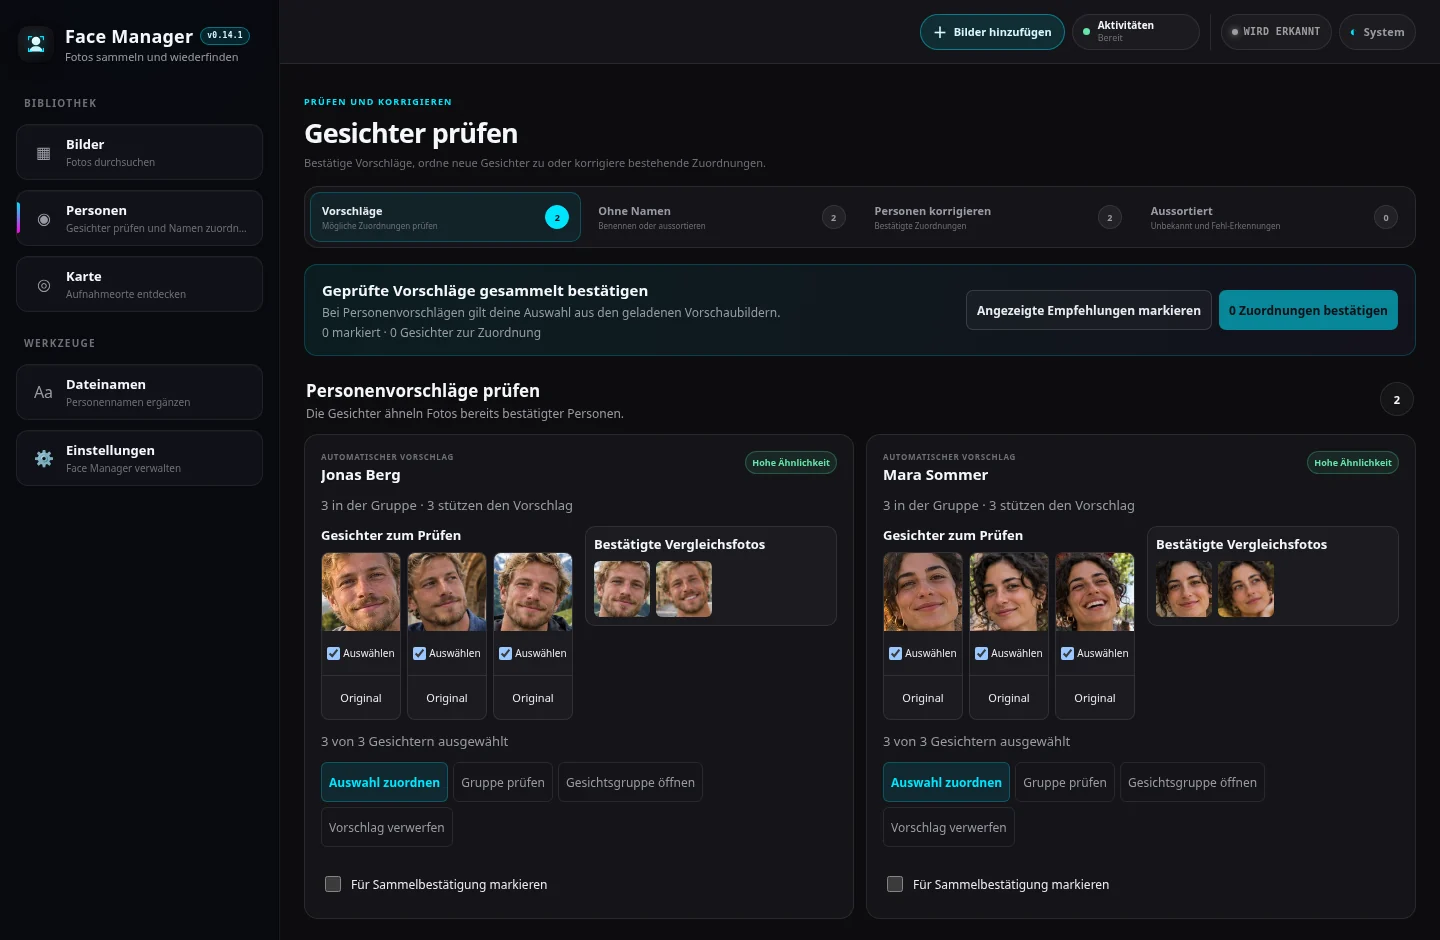
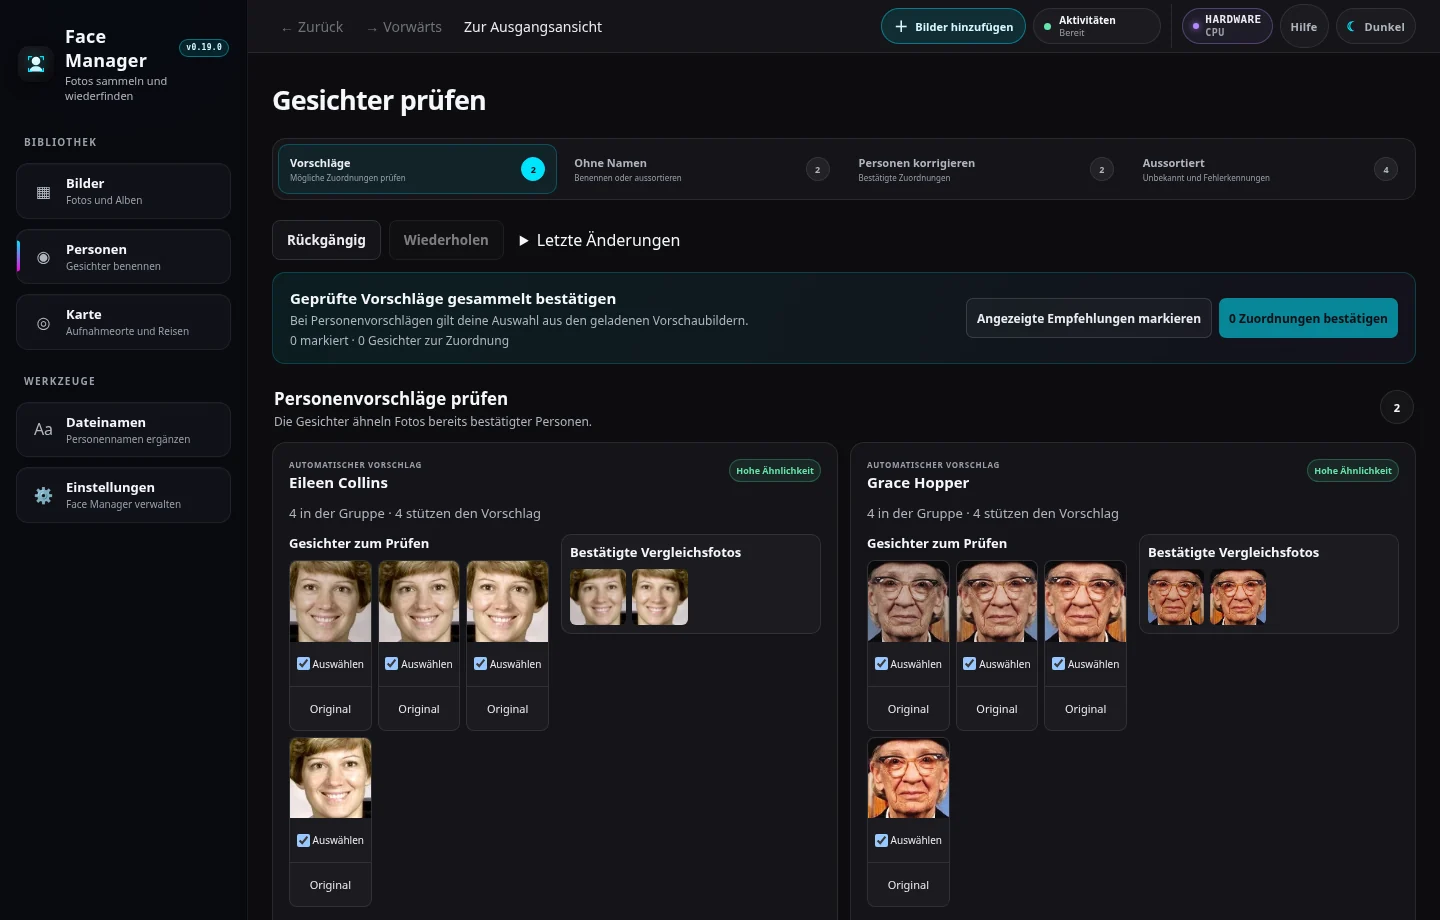
docs(readme): refresh the illustrated tour (#149)

diff --git a/README.md b/README.md
@@ -4,7 +4,7 @@ Face Manager ordnet deine Fotos auf deinem Gerät. Du kannst Gesichtern Namen ge
 
 [Download](#download-und-installation) · [Erste Schritte](#erste-schritte) · [Bebilderte Tour](#bebilderte-tour) · [Datenschutz](#daten-und-datenschutz) · [Quellcode](#aus-dem-quellcode-starten)
 
-![Neuer Ansichtsverlauf und Fotokarte mit ausgewähltem Reisezeitraum](docs/screenshots/navigation-0180.webp)
+![Face Manager mit Fotokarte und Fotos aus dem gewählten Ausschnitt](docs/screenshots/photo-map.webp)
 
 <a id="download-and-install"></a>
 
@@ -35,39 +35,112 @@ Für Android 11 oder neuer kannst du die App aus dem Quellcode bauen. Die GitHub
 
 ## Erste Schritte
 
-1. Öffne **Bilder hinzufügen** und wähle einen oder mehrere Bilderordner. Unter **Aktivitäten** siehst du den Fortschritt.
+1. Öffne **Bilder hinzufügen** (in sehr schmalen Fenstern **+ Bilder**) und wähle einen oder mehrere Bilderordner. Unter **Aktivitäten** siehst du den Fortschritt.
 2. Öffne **Personen → Ohne Namen**, wähle eine Gesichtsgruppe und gib den passenden Gesichtern einen Namen. Unter **Vorschläge** kannst du mögliche Zuordnungen prüfen.
 3. In **Bilder** kannst du nach Personen, Ordnern oder Alben filtern. Unter **Karte** findest du Fotos mit gespeicherten Aufnahmeorten.
 
-Oben in der App öffnet **Hilfe** eine Anleitung, in der du ein Thema direkt auswählen kannst. Mit **Zurück** und **Vorwärts** kehrst du zu früheren Ansichten zurück. Beim Wechsel über die Seitenleiste bleiben deine zuletzt verwendeten Ansichten erhalten. **Zur Ausgangsansicht** bringt dich zu den Standardfiltern der aktuellen Seite.
+Unter **Hilfe** kannst du direkt ein Thema auswählen. Mit **Zurück** und **Vorwärts** kehrst du zu früheren Ansichten zurück. Beim Wechsel zwischen den Bereichen bleiben deine zuletzt verwendeten Ansichten erhalten. **Zur Ausgangsansicht** bringt dich zu den Standardfiltern der aktuellen Seite. In schmalen Fenstern findest du **Dateinamen** und **Einstellungen** unter **Mehr**.
 
 <a id="app-tour"></a>
 
 ## Bebilderte Tour
 
-Screenshots und Video zeigen Beispieldaten aus der App. Die Porträts und Reisefotos der ersten Demo wurden mit OpenAI erzeugt. [Älteres Bedienvideo mit englischen Texteinblendungen (ohne Ton)](docs/screenshots/face-manager-demo.mp4?raw=true)
+Die Screenshots zeigen Face Manager im Modus **Dunkel**. Die Landschaftsaufnahmen stammen vom U.S. National Park Service. [Bildnachweise zu den Nationalparkfotos](docs/screenshots/photo-credits.md)
+
+Die Porträts und Reisefotos im älteren Bedienvideo wurden mit OpenAI erzeugt. [Älteres Bedienvideo mit englischen Texteinblendungen (ohne Ton)](docs/screenshots/face-manager-demo.mp4?raw=true)
 
 <details>
 <summary>Bilder, Galerie und Import</summary>
 
-Wähle unter **Bilder hinzufügen** mehrere Ordner auf einmal aus. Öffne in **Bilder** ein Foto für die Vollbildgalerie. Dort findest du zugehörige Gesichter und die Speicherorte der Datei.
+Wähle unter **Bilder hinzufügen** mehrere Ordner auf einmal aus. In **Bilder** kannst du die Auswahl eingrenzen. In kleinen Fenstern öffnest du dazu **Filter und Sortierung**. Öffne ein Foto für die Vollbildgalerie. Dort findest du zugehörige Gesichter und die Speicherorte der Datei.
+
+![Fotobibliothek mit Nationalparkfotos, Alben und Personenfiltern](docs/screenshots/photo-library.webp)
 
 ![Importdialog mit ausgewählten Bilderordnern](docs/screenshots/import-sources.webp)
 
-![Vollbildgalerie mit Navigation und Speicherort des Originalfotos](docs/screenshots/photo-gallery.webp)
+![Blick durch North Window auf Turret Arch in der Vollbildgalerie mit Navigation und Speicherort](docs/screenshots/photo-gallery.webp)
 
 </details>
 
 <details>
-<summary>Personen und Dateinamen</summary>
+<summary>Personen und Gesichtsgruppen</summary>
 
-Unter **Personen** vergleichst du vorgeschlagene Zuordnungen mit bereits benannten Gesichtern. Nach einer unterstützten lokalen Namenszuordnung oder Archivaktion kannst du die Änderung rückgängig machen und wiederholen. Fehlt ein Gesicht, öffne das Foto und wähle **Gesicht markieren**. Ziehe einen Rahmen auf und wähle die passende Person. Unter **Dateinamen** zeigt **Umbenennung prüfen** den aktuellen und den vorgesehenen Namen.
+Unter **Personen** kannst du neue Zuordnungen prüfen, Gesichter benennen und frühere Entscheidungen korrigieren.
 
-![Gesichter prüfen mit einer vorgeschlagenen Zuordnung und Vergleichsfotos](docs/screenshots/people-review.webp)
+<details>
+<summary>Vorschläge</summary>
 
-![Ein manuell gesetzter Rahmen um ein Gesicht am Bildrand](docs/screenshots/manual-face-marking.webp)
+Vergleiche die vorgeschlagenen Zuordnungen mit bereits bestätigten Fotos. Mit **Gruppe prüfen** öffnest du die Detailansicht und wählst aus, welche Gesichter du zuordnen möchtest.
 
-[Bildnachweis für das Porträt der NASA](https://scikit-image.org/docs/stable/api/skimage.data.html#skimage.data.astronaut)
+![Übersicht mit zwei Personenvorschlägen und bestätigten Vergleichsfotos](docs/screenshots/people-review.webp)
+
+![Detailansicht eines Personenvorschlags mit Gesichtsauswahl und Vergleichsfotos](docs/screenshots/people-suggestion-detail.webp)
+
+</details>
+
+<details>
+<summary>Ohne Namen</summary>
+
+Wähle eine Gruppe und ordne ihr eine Person zu. Markiere bei gemischten Gruppen zuerst die passenden Gesichter. In kleinen Fenstern füllt die geöffnete Gruppe den Arbeitsbereich. Mit **Zur Gruppenliste** kehrst du zur Auswahl zurück.
+
+![Unbenannte Gesichtsgruppen mit geöffneter Gruppe und Namenssuche](docs/screenshots/people-unnamed.webp)
+
+![Geöffnete Gesichtsgruppe im schmalen Fenster mit Namenssuche und Rückkehr zur Gruppenliste](docs/screenshots/people-review-compact.webp)
+
+</details>
+
+<details>
+<summary>Personen korrigieren</summary>
+
+Wähle eine bereits benannte Person und öffne eine ihrer Gruppen. Markiere falsch zugeordnete Gesichter und weise sie einer anderen Person zu oder wähle **Aus Gesichtsgruppe lösen**, um sie erneut zu prüfen.
+
+![Bestätigte Personen mit geöffneter Gesichtsgruppe zur Korrektur](docs/screenshots/people-corrections.webp)
+
+</details>
+
+<details>
+<summary>Aussortiert</summary>
+
+Hier findest du **Unbekannte Personen** und **Keine Gesichter**. Mit **Erneut prüfen** legst du ausgewählte Treffer wieder unter **Ohne Namen** vor.
+
+![Übersicht der Kategorien unter Aussortiert](docs/screenshots/people-archive.webp)
+
+![Kategorie Unbekannte Personen mit aussortierten Gesichtern](docs/screenshots/people-archive-unknown.webp)
+
+![Kategorie Keine Gesichter mit aussortierten Fehlerkennungen](docs/screenshots/people-archive-not-face.webp)
+
+</details>
+
+<details>
+<summary>Abgleich prüfen</summary>
+
+Wenn du einen gemeinsamen Ordner eingerichtet hast, kannst du hier abweichende Zuordnungen prüfen. Vergleiche die Entscheidungen und die zugehörigen Bildausschnitte.
+
+![Fall aus einem gemeinsamen Ordner mit zwei Entscheidungen und zugehörigen Bildausschnitten](docs/screenshots/people-shared-review.webp)
+
+</details>
+
+<details>
+<summary>Letzte Änderungen und Gesichter manuell markieren</summary>
+
+Unter **Letzte Änderungen** siehst du kürzlich ausgeführte Aktionen. Unterstützte Änderungen an der lokalen Bibliothek kannst du mit **Rückgängig** zurücknehmen und mit **Wiederholen** erneut ausführen.
+
+![Geöffnete Liste der letzten Änderungen mit Rückgängig und Wiederholen](docs/screenshots/people-history.webp)
+
+Fehlt ein Gesicht, öffne das Foto und wähle **Gesicht markieren**. Ziehe einen Rahmen auf und wähle die passende Person.
+
+![Ein manuell gesetzter Rahmen um das Gesicht von Eileen Collins](docs/screenshots/manual-face-marking.webp)
+
+</details>
+
+Die Beispielporträts stammen von der NASA und der U.S. Navy. [NASA-Porträt in scikit-image](https://scikit-image.org/docs/stable/api/skimage.data.html#skimage.data.astronaut) · [Grace Hopper in den Matplotlib-Beispieldaten](https://github.com/matplotlib/matplotlib/blob/main/lib/matplotlib/mpl-data/sample_data/grace_hopper.jpg)
+
+</details>
+
+<details>
+<summary>Dateinamen</summary>
+
+Unter **Dateinamen** zeigt **Umbenennung prüfen** den aktuellen und den vorgesehenen Namen.
 
 ![Vorschau der aktuellen und vorgeschlagenen Dateinamen](docs/screenshots/filenames.webp)
 
@@ -82,11 +155,13 @@ In kleinen Fenstern wechselst du zwischen **Karte** und **Fotos** oder **Stopps*
 
 Unter **Reisen entdecken** kannst du einen Vorschlag ansehen, Reisetage auswählen und bei Bedarf An- oder Rückreise einblenden. Speichere die ausgewählten Fotos als Reisealbum und öffne es später über **Album** in **Bilder** oder **Karte**. Über **Zum Album hinzufügen** sammelst du weitere Fotos aus der Galerie oder der Karte.
 
-![Offline-Fotokarte mit Standortmarkierungen, Filtern und Fotos aus dem Ausschnitt](docs/screenshots/photo-map.webp)
+![Fotokarte im schmalen Fenster mit Kartenansicht, Fotoansicht und Kartenfilter](docs/screenshots/photo-map-compact.webp)
 
-![Offline-Satellitenansicht mit Ländernamen, Fotostandorten und NASA-Quellenangabe](docs/screenshots/satellite-017.webp)
+![Fotoansicht der Kompaktkarte mit Aufnahmen aus dem Kartenausschnitt](docs/screenshots/photo-map-compact-photos.webp)
 
-![Reisealbum „Sommer in Frankreich“ in Bilder mit der Schaltfläche „Auf Karte zeigen“](docs/screenshots/travel-album.webp)
+![Offline-Satellitenansicht mit Ländernamen, Fotostandorten und NASA-Quellenangabe](docs/screenshots/satellite.webp)
+
+![Reisealbum „Nationalparks im Westen“ in Bilder mit der Schaltfläche „Auf Karte zeigen“](docs/screenshots/travel-album.webp)
 
 </details>
 
@@ -95,9 +170,9 @@ Unter **Reisen entdecken** kannst du einen Vorschlag ansehen, Reisetage auswähl
 
 Öffne in **Karte** die gewünschte Auswahl und wähle unter **Kartendarstellung und Export** die Aktion **Bild exportieren**. Passe Titel, Format, Druckauflösung, Farben und Kartenausschnitt an. Für eigene Bildmaße stehen Pixel und Millimeter zur Wahl. Unter **Route gestalten** kannst du Verkehrsmittel für einzelne Etappen wählen. Speichere eine Seite als PNG oder mehrere Seiten zusammen als ZIP. Mit **Entwurf im Album speichern** sicherst du die Gestaltung. Öffne später das Album und wähle erneut **Bild exportieren**.
 
-![Fotobuchvorschau mit Wiener Reiseverlauf, Format und Druckmaß](docs/screenshots/photobook-0180.webp)
+![Fotobuchvorschau mit Reiseverlauf, Druckauflösung und Abmessungen](docs/screenshots/photobook.webp)
 
-![Mehrseitiges Fotobuch mit Vorschau und gemeinsamem ZIP-Export](docs/screenshots/photobook-zip-0171.webp)
+![Fotobuchvorschau mit Bestätigung für den ZIP-Export aller Seiten](docs/screenshots/photobook-zip.webp)
 
 </details>
 
@@ -106,26 +181,30 @@ Unter **Reisen entdecken** kannst du einen Vorschlag ansehen, Reisetage auswähl
 
 Wähle unter **Hilfe** ein Thema. **Aktivitäten** zeigt laufende und abgeschlossene Aufgaben wie Import, Standortprüfung und Updates. In der Kopfleiste siehst du, ob die Gesichtserkennung den Prozessor (**CPU**) oder die Grafikkarte (**GPU**) nutzt. Einen Wechsel zum Prozessor zeigt die App als **CPU-Ersatzbetrieb** an. Nach der ersten Analyse findest du dort auf dem Computer **Hardware prüfen**.
 
-![Hilfe mit dem Thema „Fotos auf der Karte finden“, Themenauswahl und direktem Einstieg](docs/screenshots/help-017.webp)
+![Hilfe mit Themenauswahl und direktem Einstieg in die Fotokarte](docs/screenshots/help.webp)
 
-![Aktivitäten mit laufendem Import, Standortprüfung und einem abgeschlossenen Import](docs/screenshots/activities-017.webp)
+![Aktivitäten mit Fortschritt und abgeschlossenen Aufgaben](docs/screenshots/activities.webp)
 
-![Hardwarestatus mit CPU-Ersatzbetrieb und Ergebnissen der Hardwareprüfung](docs/screenshots/hardware-017.webp)
+![Hardwarestatus der Gesichtserkennung mit CPU-Ersatzbetrieb und gemessenen Zeiten](docs/screenshots/hardware.webp)
 
 </details>
 
 <details>
 <summary>Einstellungen und gemeinsame Ordner</summary>
 
-In **Einstellungen** findest du Erkennung, Dateinamen, Darstellung sowie **Daten und Wartung**. Dort erstellst du eine Sicherung und stellst die Größe des lokalen Vorschau-Speichers ein.
+Unter **Einstellungen → Darstellung** kannst du **Hell** oder **Dunkel** wählen. **System** übernimmt die Einstellung deines Betriebssystems. Unter **Daten und Wartung** erstellst du eine Sicherung und stellst die Größe des lokalen Vorschau-Speichers ein.
 
 **Gemeinsame Ordner** lassen sich in einer Entwicklervorschau für den Abgleich von Zuordnungen über eine eingerichtete Freigabe nutzen. [Stand und Einrichtung der Vorschau](docs/shared-library-design.md)
 
+![Darstellungseinstellungen mit ausgewähltem Modus Dunkel](docs/screenshots/appearance.webp)
+
 ![Einstellungen für den lokalen Vorschau-Speicher](docs/screenshots/settings.webp)
 
-![Wiederherstellungsvorschau mit Dateidatum, Anzahl der Fotos, Personen und Alben und einer Schaltfläche zum Abbrechen](docs/screenshots/restore-0171.webp)
+![Wiederherstellungsvorschau mit Datum und Anzahl der Fotos, Personen und Alben in der Sicherung](docs/screenshots/restore.webp)
 
-![Gemeinsame Ordner in der Vorschau mit verbundenem Beispielordner und Archiv im Lesemodus](docs/screenshots/shared-library-017.webp)
+![Gemeinsame Ordner mit einer verbundenen und einer schreibgeschützten Freigabe](docs/screenshots/shared-library.webp)
+
+![Benachrichtigung zu einer neuen Version mit Versionshinweisen und Download-Schaltfläche](docs/screenshots/updates.webp)
 
 </details>
 

diff --git a/docs/screenshots/photo-credits.md b/docs/screenshots/photo-credits.md
@@ -1,0 +1,36 @@
+# Bildnachweise der README-Screenshots
+
+Die gezeigten Nationalparkfotos stammen aus der NPGallery des U.S. National Park Service. Die unten verlinkten Bilder sind dort als gemeinfrei ausgewiesen. Für die Screenshots wurden verkleinerte und zugeschnittene Kopien aus Vistarium verwendet. Die Datumsangaben und Standorte in der App dienen als Beispieldaten. [Vistarium](https://github.com/joshkaspar/vistarium)
+
+| Nationalpark | Foto und Urheberangabe |
+| --- | --- |
+| Joshua Tree | [Campsite at Hidden Valley Campground](https://npgallery.nps.gov/AssetDetail/4b9fb924-7665-4ea3-b2e4-e6155b2db7da) · NPS / Hannah Schwalbe |
+| Joshua Tree | [Campsite at Hidden Valley Campground](https://npgallery.nps.gov/AssetDetail/9560b49b-7079-4920-b475-ffbfa440f7e2) · NPS / Hannah Schwalbe |
+| Joshua Tree | [Milky Way over the Cholla Garden](https://npgallery.nps.gov/AssetDetail/adcb6564-3066-4086-b3c3-197e6458b75c) · NPS / Hannah Schwalbe |
+| Joshua Tree | [Camping at Hidden Valley Campground](https://npgallery.nps.gov/AssetDetail/40e8947a-e6c7-440f-83b5-a8388b2cc8e4) · NPS / Hannah Schwalbe |
+| Joshua Tree | [Elk Fire Burned Area](https://npgallery.nps.gov/AssetDetail/d830ce89-b969-4846-982b-566ee45201e9) · NPS / Hannah Schwalbe |
+| Death Valley | [Feb07_001](https://npgallery.nps.gov/AssetDetail/406cd58d-1dd8-b71b-0b1b-8f084925f832) · NPS / Kurt Moses |
+| Death Valley | [Night Sky](https://npgallery.nps.gov/AssetDetail/cc311a3f-fea8-4835-b3a5-f6a2b877e5f4) · NPS |
+| Death Valley | [Water in Mesquite Flat Sand Dunes](https://npgallery.nps.gov/AssetDetail/8cb57b28-1eb8-40a2-b6f6-6fc7d0f02aa1) · NPS/ N. Bernard |
+| Death Valley | [Lake Formed by Floodwater](https://npgallery.nps.gov/AssetDetail/224a40e0-e9fa-42f2-be30-1512c2955c8d) · NPS |
+| Death Valley | [Panamint Mountains](https://npgallery.nps.gov/AssetDetail/51dea8fb-a860-41d6-ae04-81bab036eee0) · NPS / Neal Nurmi |
+| Zion | [Panorama of the milkyway over bridge mountain and watchman](https://npgallery.nps.gov/AssetDetail/80b8a417-ae4c-4380-b9d6-c9285871f190) · NPS / Public Domain |
+| Zion | [Watchman under the milky way](https://npgallery.nps.gov/AssetDetail/ca7c87d7-2723-4639-aa45-19a0cafa08a2) · NPS / Patrick Buick, AstroVIP |
+| Zion | [Kolob Canyons Road](https://npgallery.nps.gov/AssetDetail/2501fa4c-155d-451f-6785-6e3144f8cb36) · NPS Photo |
+| Zion | [Pleiades over an ephemeral waterfall at the Temple of Sinawava](https://npgallery.nps.gov/AssetDetail/a9eccfab-02de-451b-9131-3e3681af47a0) · NPS/Abi Farish |
+| Zion | [Plateau Rain](https://npgallery.nps.gov/AssetDetail/bca62c3b-155d-451f-676f-60bfd2a60e9e) · NPS Photo / Jonathan Fortner |
+| Bryce Canyon | [Rainbow from Inspiration Point](https://npgallery.nps.gov/AssetDetail/cc789c21-2bb4-4285-9de9-dbcd85f669c0) · NPS Peter Densmore |
+| Bryce Canyon | [Panorama at start of Whiteman Connecting Trail](https://npgallery.nps.gov/AssetDetail/477e38b7-45f4-4438-8911-88245b85e81a) · NPS/Peter Densmore |
+| Bryce Canyon | [Noon Canyon Butte along Whiteman Connecting Trail](https://npgallery.nps.gov/AssetDetail/786c0619-efe3-481a-905c-977e4523f95f) · NPS/Peter Densmore |
+| Bryce Canyon | [Swamp Canyon cliffs](https://npgallery.nps.gov/AssetDetail/edd4cc77-26c1-45b2-bee8-1dbc979a4606) · NPS/Peter Densmore |
+| Bryce Canyon | [Swamp Canyon and Mud Canyon Buttes](https://npgallery.nps.gov/AssetDetail/629cc2bf-10e5-4c76-bbec-a08a6edc24c4) · NPS/Peter Densmore |
+| Grand Canyon | [Cover](https://npgallery.nps.gov/AssetDetail/6b918358-2e2f-4adc-a41a-064076de12a5) · NPS Photo by Michael Quinn |
+| Grand Canyon | [Cape Royal View from Permitted Site](https://npgallery.nps.gov/AssetDetail/73081278-ccd9-4dc0-8be6-e15ad35ab41d) · NPS/CDubin |
+| Grand Canyon | [Lipan Point View](https://npgallery.nps.gov/AssetDetail/4e764f92-d17d-4d57-b809-3367f5f7c470) · NPS/CDubin |
+| Grand Canyon | [Grand Canyon National Park Winter Storm - January 7, 2016](https://npgallery.nps.gov/AssetDetail/3053935e-1dd8-b71b-0bb9-57e4b4014c17) · NPS/Clayton Hanson |
+| Grand Canyon | [Smoke on the Rim of the Canyon](https://npgallery.nps.gov/AssetDetail/402e69b6-8b1a-40a0-8df5-4ef99d7b6671) · NPS Photo/Fire Effects |
+| Arches | [Ambient Light from Moab and Highway 191](https://npgallery.nps.gov/AssetDetail/273fe915-155d-451f-6782-2c0ac6b3ca09) · NPS/Jacob W. Frank |
+| Arches | [Balanced Rock](https://npgallery.nps.gov/AssetDetail/39417b42-1dd8-b71b-0bc6-3976281a46b3) · NPS/Neal Herbert |
+| Arches | [Courthouse Towers](https://npgallery.nps.gov/AssetDetail/27329a04-fa91-4cb2-be01-30fac623170d) · NPS/Chris Wonderly |
+| Arches | [First Light on Turret Arch Framed by North Window](https://npgallery.nps.gov/AssetDetail/20ba3976-155d-451f-677c-de4ce8418f54) · NPS/Jacob W. Frank |
+| Arches | [Double O Arch](https://npgallery.nps.gov/AssetDetail/1fe16d77-155d-451f-67be-aa70882ebd52) · NPS/Neal Herbert |
